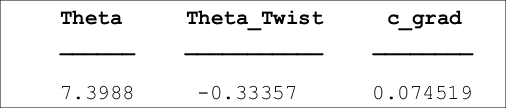
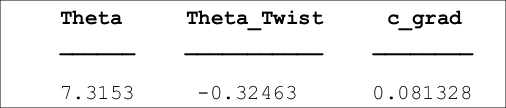
Fix force indexing

Changed region(s): [[0.8004, 0.7778, 0.9486, 0.9167], [0.4743, 0.7778, 0.5929, 0.9167], [0.1779, 0.7778, 0.2668, 0.9167]]

diff --git a/WTSingleVelocity.m b/WTSingleVelocity.m
@@ -48,10 +48,10 @@ My=zeros(1,N+1);
 Mz=zeros(1,N+1);
 for p=N:-1:1
     % Interp Forces at each node
-    force_y_p=pts(N);
-    force_y_p1=pts(N-1);
-    force_z_p=pns(N);
-    force_z_p1=pns(N-1);
+    force_y_p=pts(p+1);
+    force_y_p1=pts(p);
+    force_z_p=pns(p+1);
+    force_z_p1=pns(p);
     Ty(p)=Ty(p+1)+(1/2*(force_y_p+force_y_p1)*radius_delta);
     Tz(p)=Tz(p+1)+(1/2*(force_z_p+force_z_p1)*radius_delta);
     My(p)=My(1,p+1)-(radius_delta*Tz(p+1))-((force_z_p1/6)+(force_z_p/3))*radius_delta^2;
